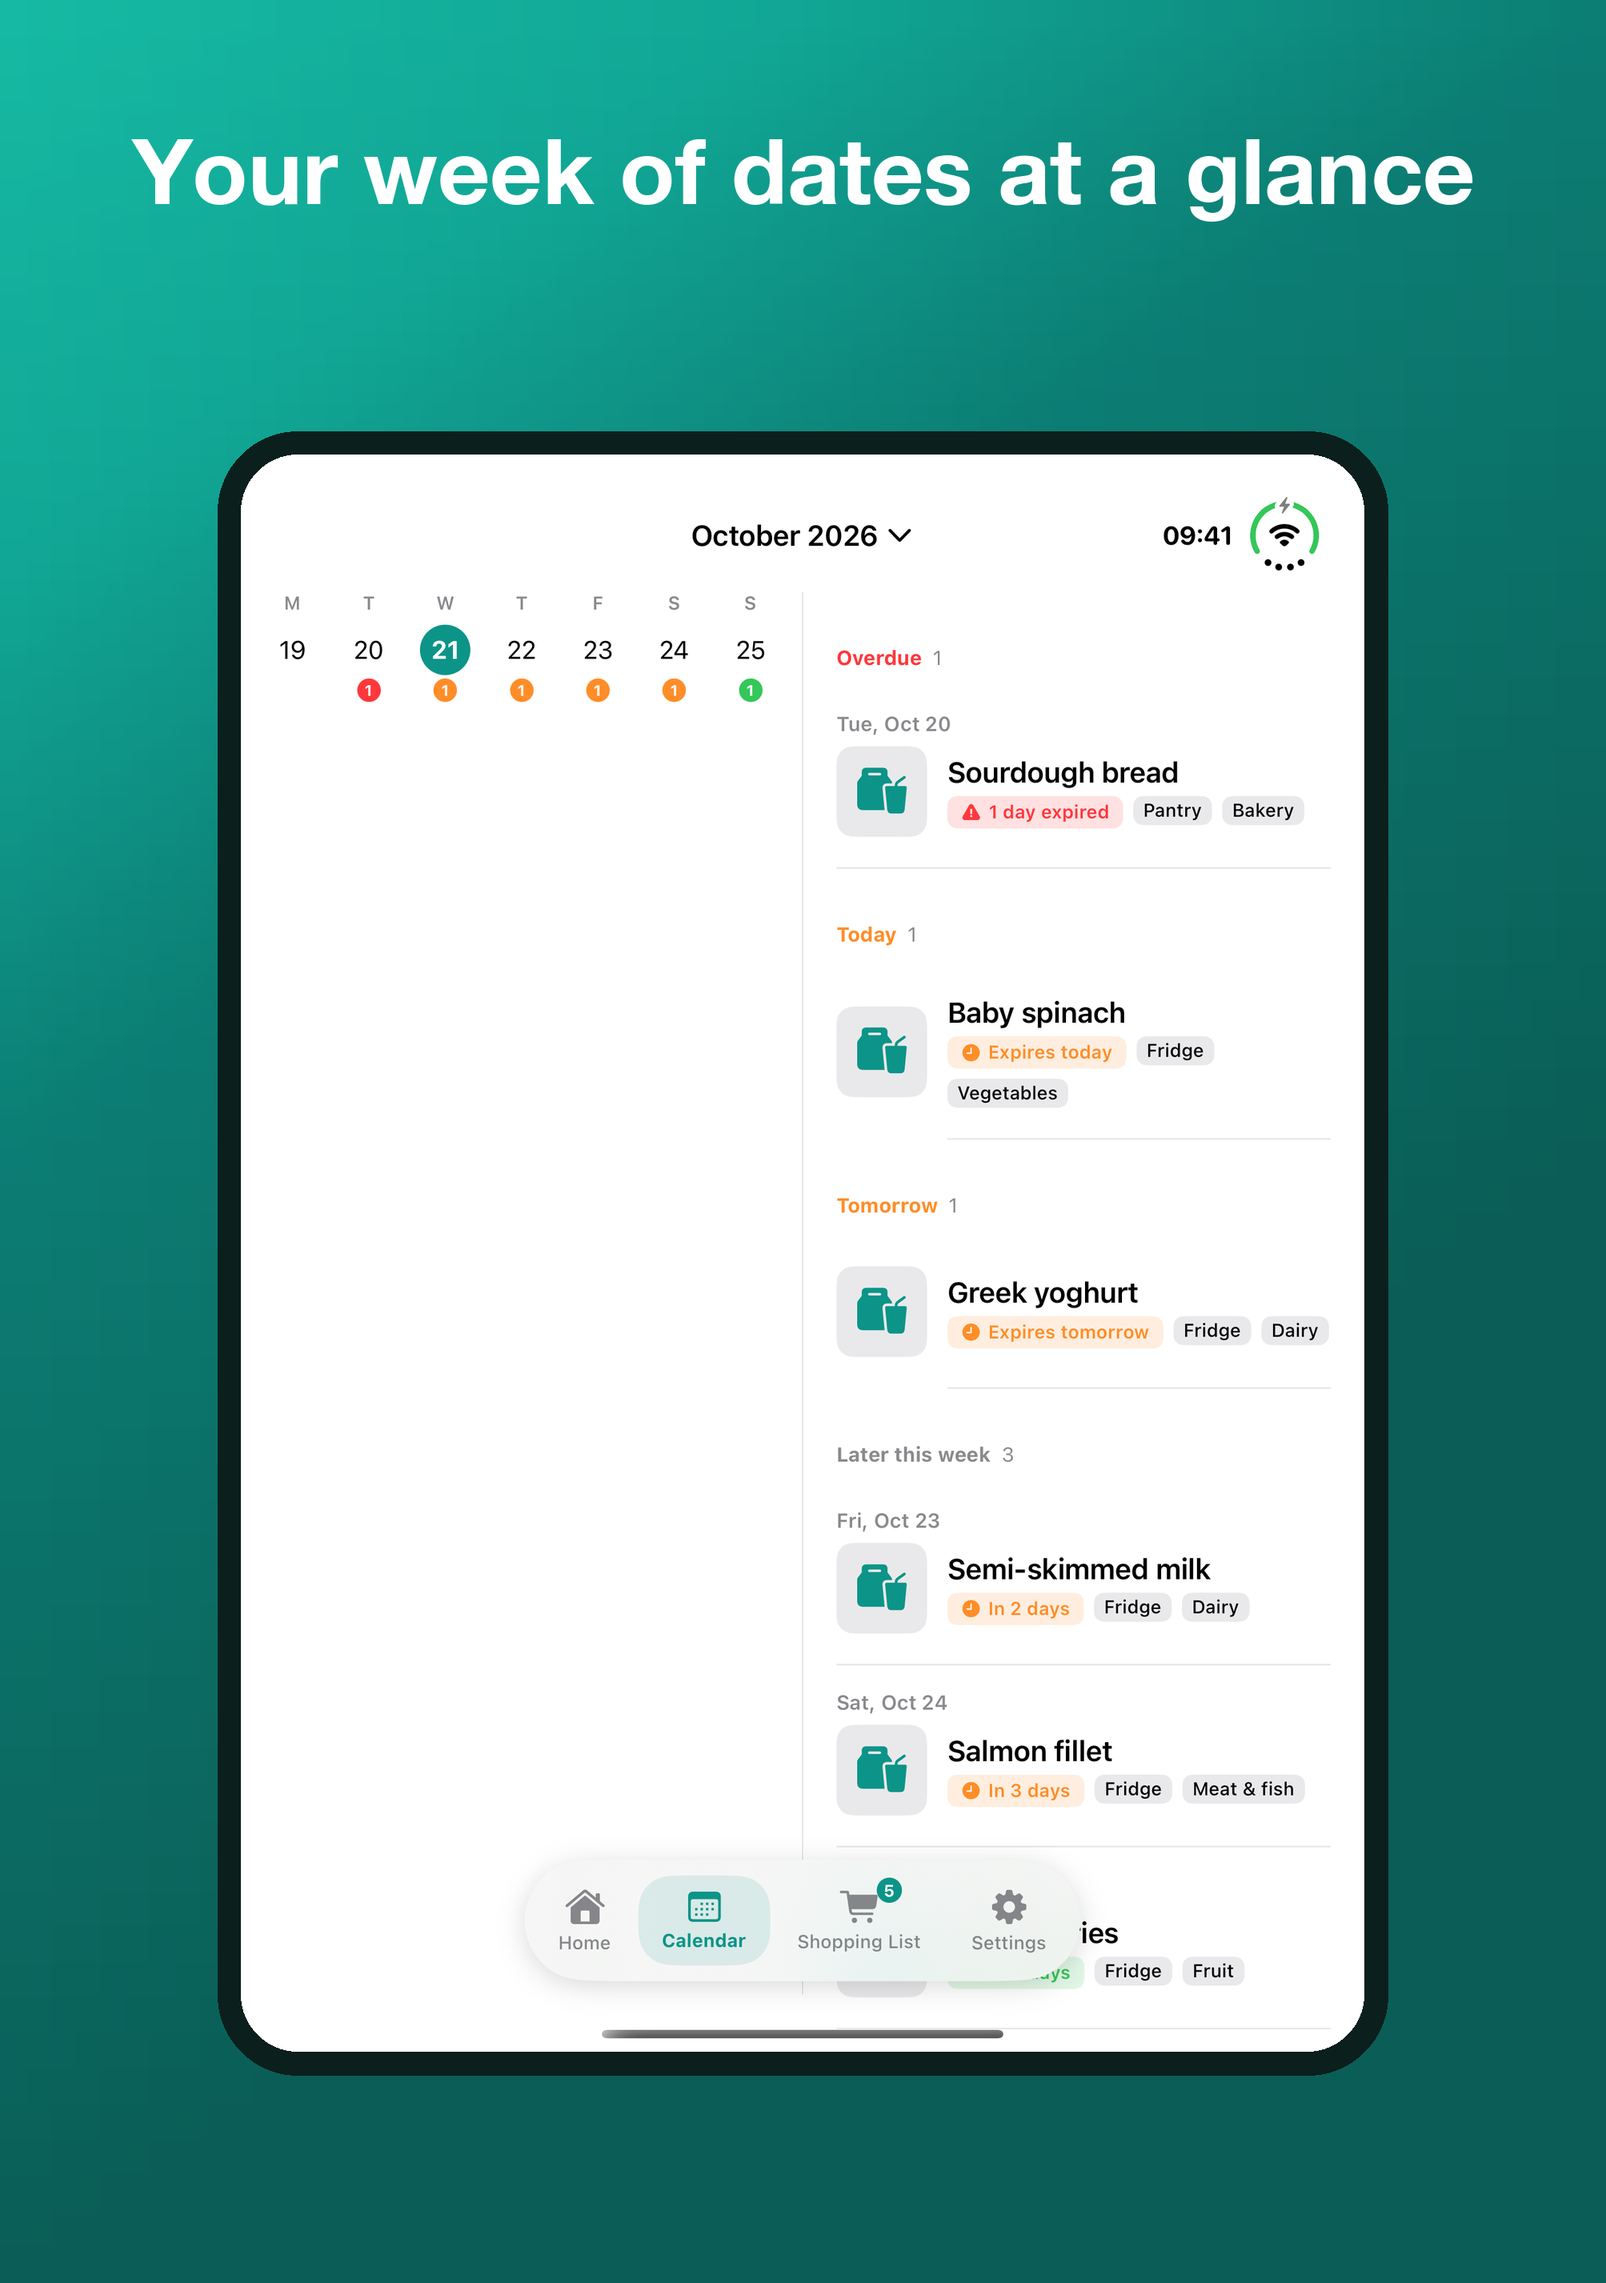
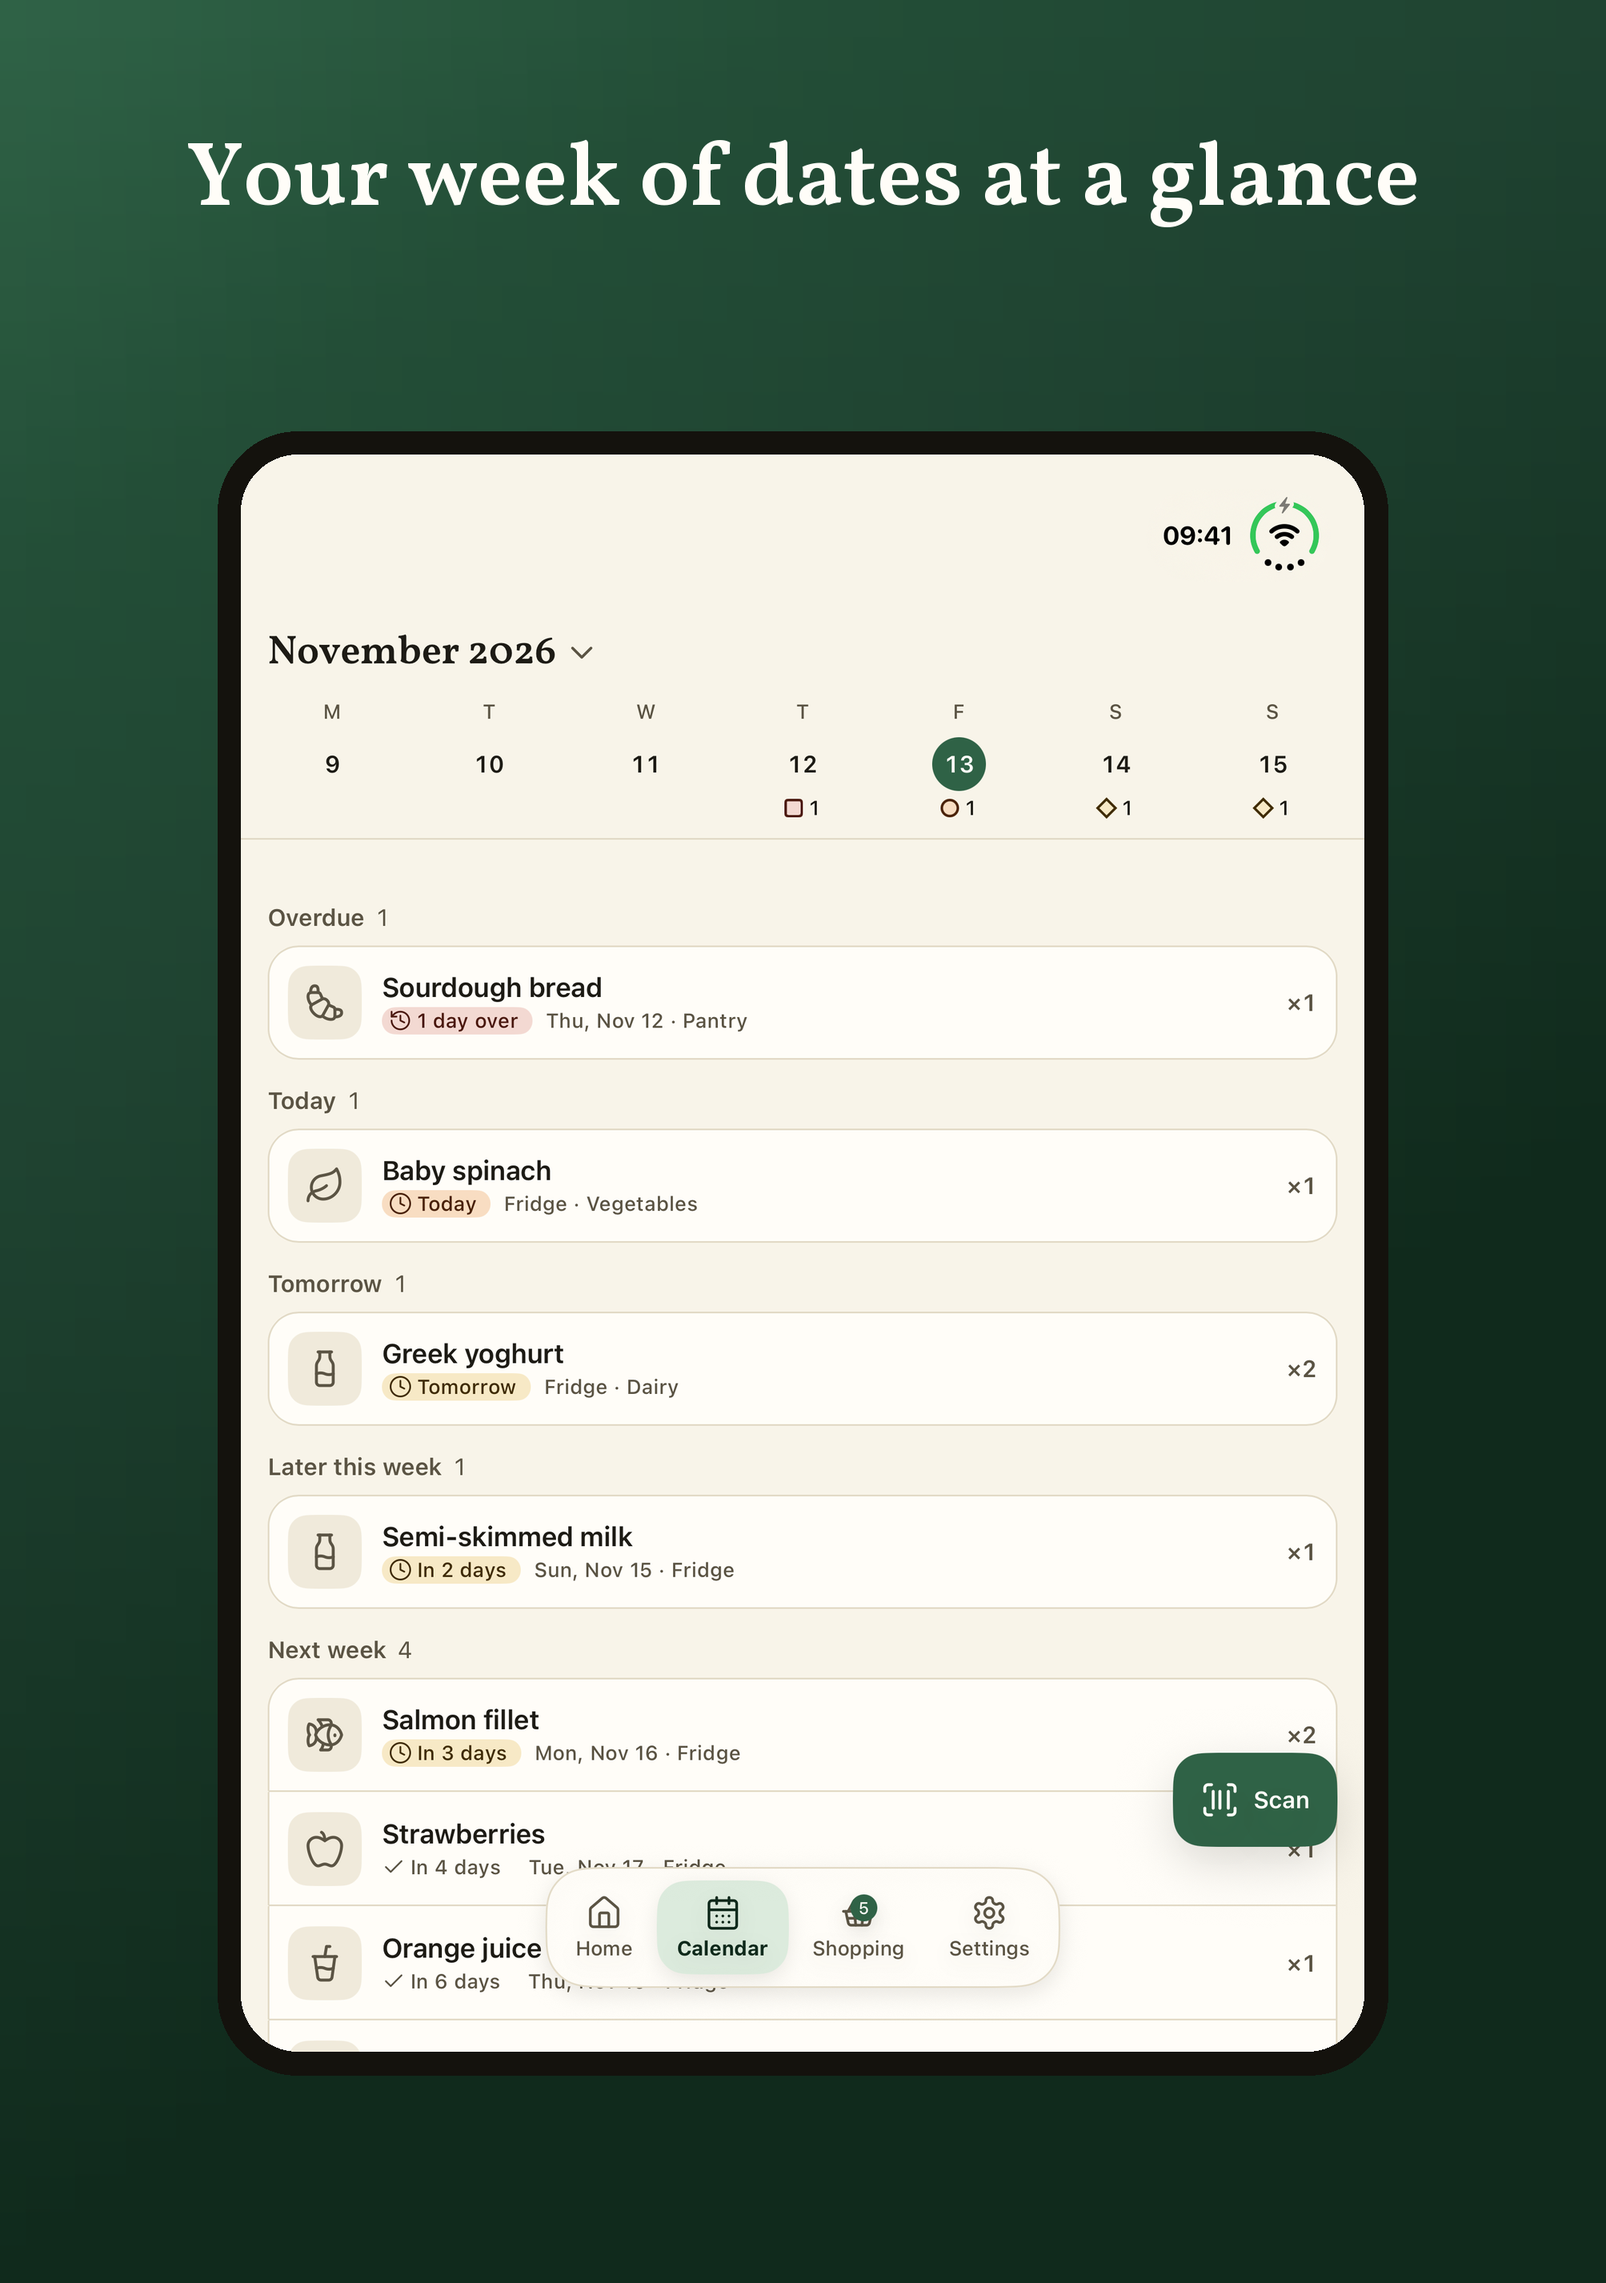
Retake the iPhone Duo inner screenshots and header art in Larder
Also notes in the store README how to pick the Duo's displays now
that Xcode 27 replaces the Simulator app with Device Hub, and how the
Play set is made.

Claude-Session: https://claude.ai/code/session_01RnV2HAF2qyceRJWfWWkDND

diff --git a/store-listing/app-store/README.md b/store-listing/app-store/README.md
@@ -16,16 +16,20 @@ screenshot sets, four each, in App Store Connect's media sections of the same na
 iPhone Duo screenshots put an "optimized for iPhone Duo" badge on the product page, and from
 April 2027 they are required for apps built with the iOS 27.1 SDK.
 
-Retake them after UI changes: `scripts/ios_screenshots.sh <raw-dir>` captures a demo pantry in
-every language, then `scripts/frame_screenshots.py <raw-dir> <folder>` adds the captions and
-device frame (the captions live in that script). Pick the simulator with `DEVICE_NAME`:
+Retake them after UI changes: `scripts/ios_screenshots.sh <raw-dir>` captures a demo pantry
+(`scripts/demo_backup.py`) in every language, then `scripts/frame_screenshots.py <raw-dir>
+<folder>` adds the captions and device frame in Larder's colours (the captions live in that
+script). The Google Play set is made the same way: `ANDROID_SERIAL=<emulator>
+scripts/android_screenshots.sh <raw-dir>`, then `scripts/frame_screenshots.py <raw-dir>
+phone-screenshots`. On a slow machine, `SETTLE=<seconds>` waits longer before each capture. Pick the simulator with `DEVICE_NAME`:
 
 - `screenshots/`: the default, iPhone 17 Pro Max.
 - `medium-screenshots/`: `DEVICE_NAME="iPhone 17 Pro"`. Not an iOS 27.0 simulator: there the app
   hangs on its launch screen, waiting on the notification service, so every capture is blank.
-- `duo-inner-screenshots/`: `DEVICE_NAME="iPhone Duo"`, with the simulator open and upright.
-- `duo-outer-screenshots/`: `DEVICE_NAME="iPhone Duo" SCREEN=1`, with the simulator folded. The
-  pose is set in Xcode's Device Hub; simctl can't change it.
+- `duo-inner-screenshots/`: `DEVICE_NAME="iPhone Duo" SCREEN=3`, with the simulator unfolded.
+- `duo-outer-screenshots/`: `DEVICE_NAME="iPhone Duo" SCREEN=1`. A simulator booted without a
+  window comes up folded. The pose is set in Xcode's Device Hub (Xcode 27 has no Simulator app);
+  simctl can't change it. `xcrun simctl io <udid> enumerate` lists the screen IDs.
 - `ipad-screenshots/`: `DEVICE_NAME="iPad Pro 13-inch (M5)"`.
 
 Each folder also has the two images for the version page's "Header and Search Results" section,
